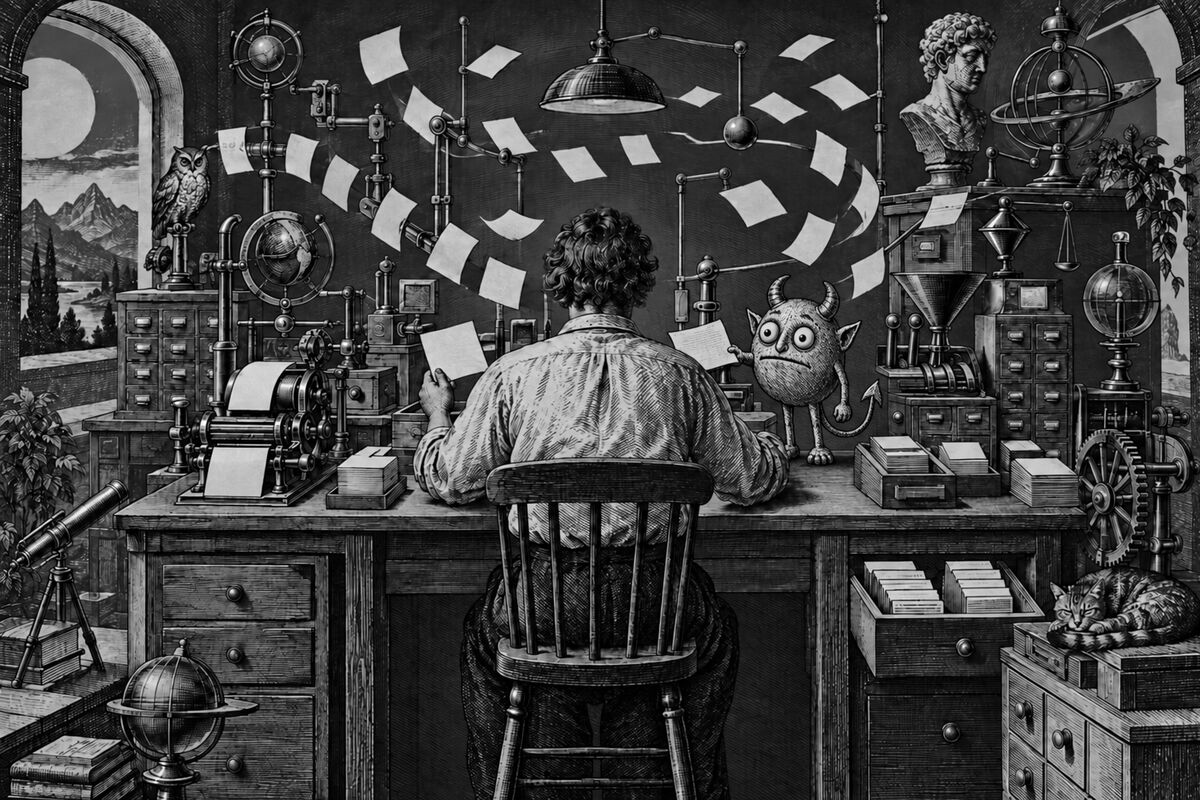
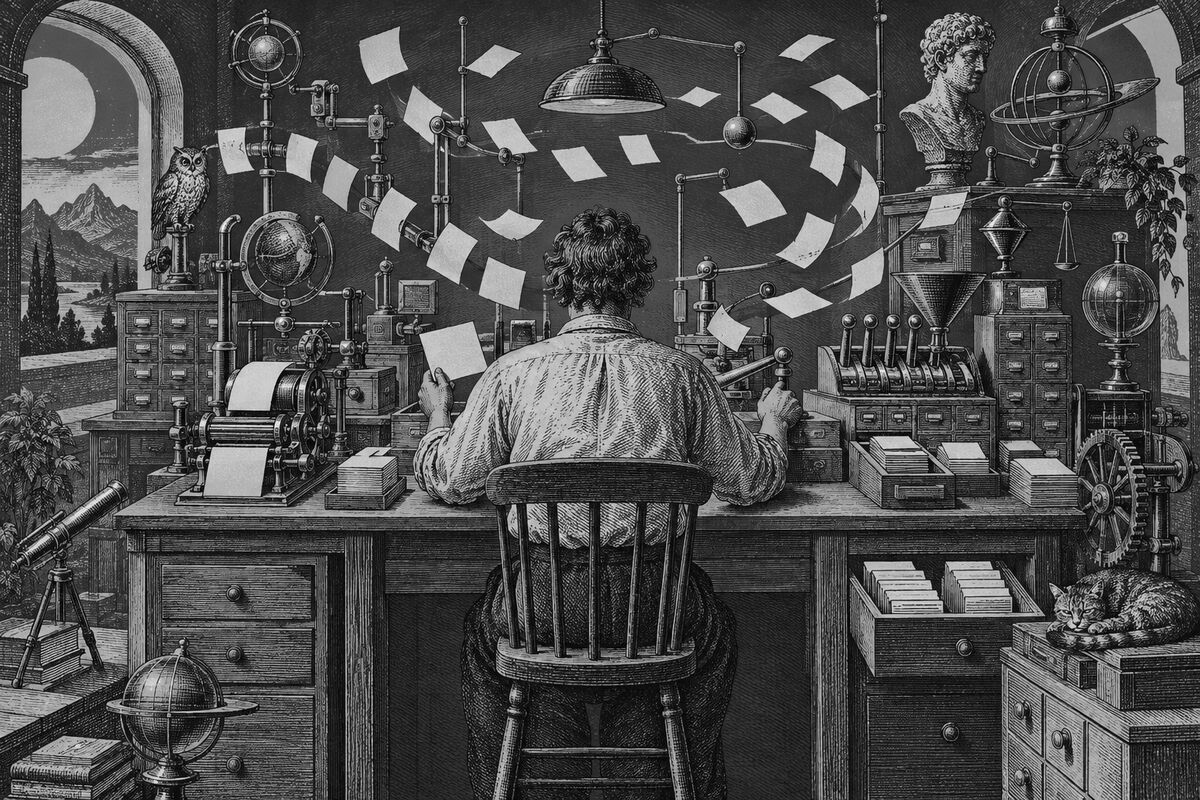
Use the woodcut imp mark and drop the mascot illustration
The app icons, favicon and logo go back to the woodcut imp head, the
workshop engraving goes back to the original without a creature, and
onboarding and the README no longer show a mascot.

diff --git a/README.md b/README.md
@@ -1,5 +1,3 @@
-<p align="center"><img src="assets/imp.jpg" width="360" alt="Imp, a blue-and-white porcelain imp with googly eyes, one finger raised"></p>
-
 # Imp
 
 Your own imp: a self-hosted assistant that runs errands in your apps and builds new ones for you.
